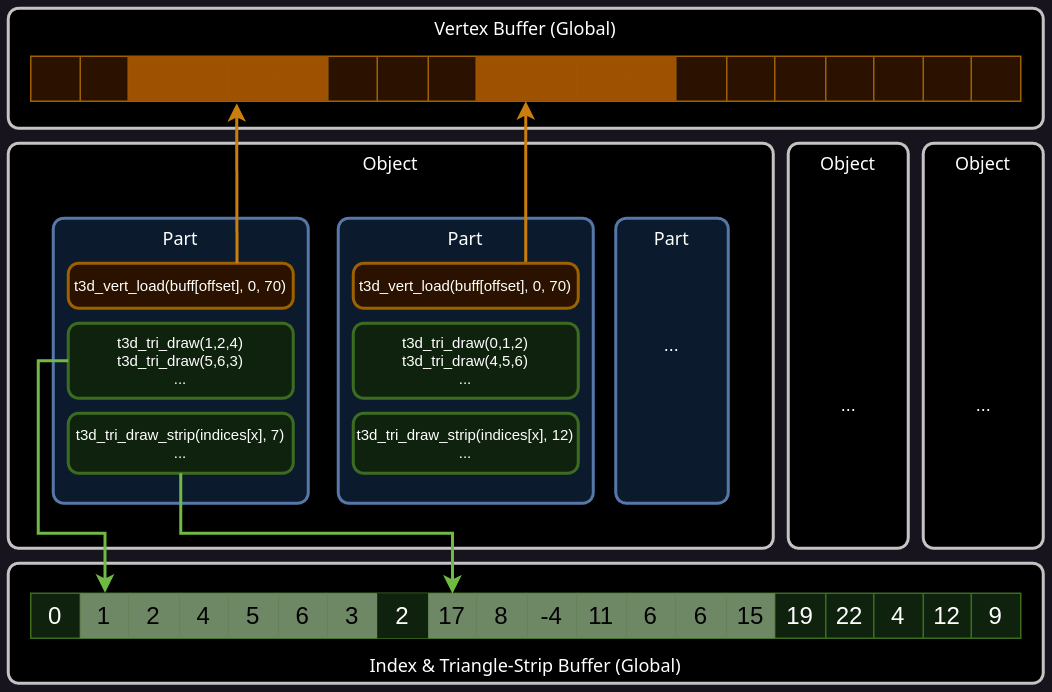
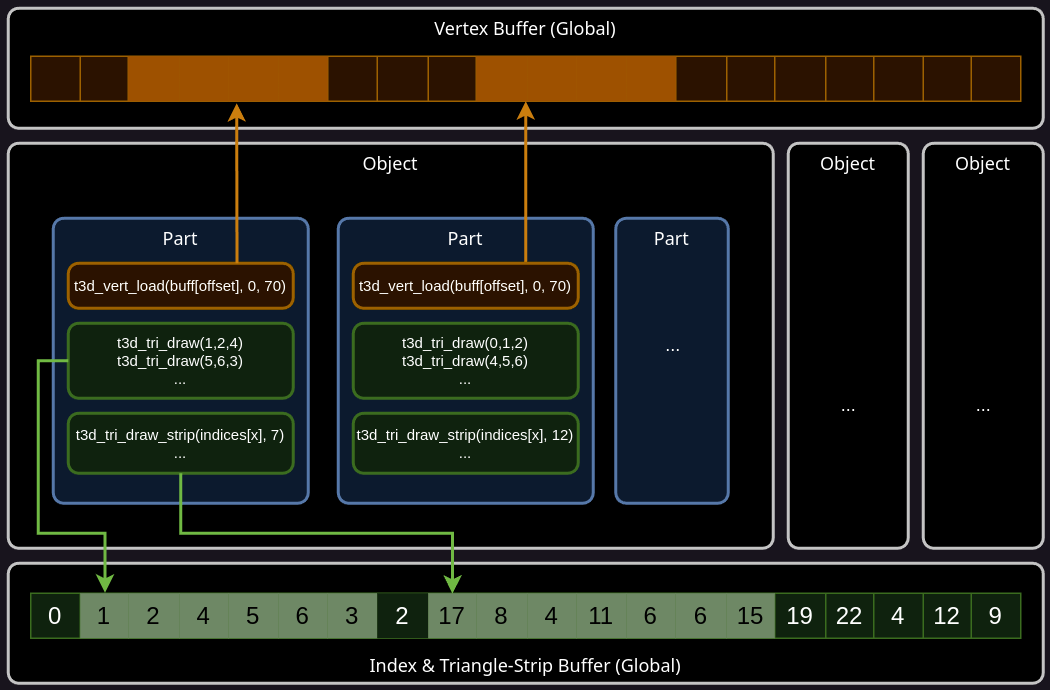
chg: finish first docs version

diff --git a/tools/gltf_importer/src/main.cpp b/tools/gltf_importer/src/main.cpp
@@ -134,8 +134,10 @@ int main(int argc, char* argv[])
     if(config.verbose) {
       int totalIdx=0, totalStrips=0, totalStripCmd = 0;
       for(auto &c : chunks.chunks) {
-        printf("[%s:part-%ld] Indices | List: %d, Strip: %d %d %d %d\n",
-          model.name.c_str(), &c - &chunks.chunks[0],
+        printf("[%s:part-%ld] Vert: %d | Idx-Tris: %d | Idx-Strip: %d %d %d %d\n",
+          model.name.c_str(),
+          &c - &chunks.chunks[0],
+          c.vertexCount,
           c.indices.size(),
           c.stripIndices[0].size(), c.stripIndices[1].size(),
           c.stripIndices[2].size(), c.stripIndices[3].size()
@@ -144,7 +146,7 @@ int main(int argc, char* argv[])
         totalStrips += c.stripIndices[0].size() + c.stripIndices[1].size() + c.stripIndices[2].size() + c.stripIndices[3].size();
         totalStripCmd += !c.stripIndices[0].empty() + !c.stripIndices[1].empty() + !c.stripIndices[2].empty() + !c.stripIndices[3].empty();
       }
-      printf("[%s] Total indices | List: %d, Strip: %d (commands: %d)\n", model.name.c_str(), totalIdx, totalStrips, totalStripCmd);
+      printf("[%s] Idx-Tris: %d, Idx-Strip: %d (commands: %d)\n", model.name.c_str(), totalIdx, totalStrips, totalStripCmd);
     }
 
     chunks.triCount = model.triangles.size();

diff --git a/docs/modelOpt.md b/docs/modelOpt.md
@@ -31,7 +31,7 @@ Here is an example visualization of the structure we want to build:<br>
 
 Note that this is the perspective of the file, so the data you see is in RDRAM.<br>
 Whereas e.g. the `t3d_vert_load(..., 0, 70)` is the offset/size of where to load it into the vertex cache.<br>
-The reason why there are strips and negative indices is explained later.<br>
+The reason why there are strips is explained later.<br>
 (For more details on how the data is stored check out the file-format: [modelFormat.md](modelFormat.md))
 
 ## Splitting
@@ -130,35 +130,152 @@ As an example, we can draw these 4 triangles with just 6 indices instead of 12:<
 
 After the first triangles that still needs 3 indices,<br>
 we can assume that the next index simply expand the triangle by re-using the last 2 indices.<br>
-The format t3d uses, also makes use of two additional features:<br>
 
 #### Reset-Index
 At some point the strip stops, mostly because not all triangles are connected.<br>
 Instead of emitting individual commands for each strip, we encode a marker to tell that a reset is needed.<br>
 This allows us to chain any given strips together, and we can load them all with one command.<br>
 
-For that we negate the first index of a new strip and subtract one.<br>
-This avoids having to waste a special value some other implementations use.<br>
-(Note that at runtime where we have DMEM addresses instead, the MSB is set. Which i may use for the model format too in the future).<br>
+For that we mark the first index of a new strip by setting the MSB to 1.<br>
+This avoids having to insert special index like some other implementations use.<br>
 
 One nice side-effect is that we could encode regular triangle-list that are not strips too without any overhead.<br>
 This is not useful for the model format, but manual usage of the t3d API can make use of this.
 
 #### Degenerate Triangles
 
-Sometimes triangles only share a single vertex with the last one.<br>
-For that we would need to restart the strip, however we can sometimes use a trick to avoid that.<br>
-By repeating the first index again, we create a "degenerate triangle", so a line instead of a polygon.<br>
-This will be discarded at runtime, in t3d's ucode directly in the strip loop by checking if the index is the same.<br>
-After that, the last two indices are different again, and we can continue the strip.<br>
+Sometimes triangles only share a single vertex with the last one, forcing us to start a new strip.<br>
+Some libraries will generate strips with degenerate triangles to avoid this.<br>
+Meaning they will emit triangles where 2 indices are the same, which causes it to be discarded, and the indices to shift.<br>
+However since we have a restart-index without any overhead, this is always worse.<br>
+In addition, the ucode would have to explicitly handle this in the loop.<br>
+For that reason, degenerated triangles are not supported.<br>
 
-As an example:
-
-@TODO: image
 
 #### Generating Strip-Commands
+Now that we know how to encode strips, we can generate them.<br>
+We first stripify the index buffer we already have in the part using this library: https://github.com/GPSnoopy/TriStripper <br>
+This will return a list of individual strips.<br>
 
-@TODO: 
+Note that i'm not using meshoptimizer here as it forces degenerate triangles.<br>
+TriStripper does explicitly not, and generates shorter sequences than meshoptimizer.<br>
+
+Here is a a very simple mesh, left the input, right the output of TriStripper:
+![tri_strip_example](./img/tri_strip_example.png)
+It created one strip, and then a single triangle for the leftover one.
+
+Since we want to have at least some room for our strips, we first make sure that at least 2 vertex slots are unused.<br>
+For that we simply draw all triangles that use them using regular triangle commands.<br>
+It's important to note that strip commands carry some overhead, needing to start a DMA and setup some registers.<br>
+So they are only more efficient when they draw several triangles.<br>
+
+Now starts the main loop, we try to fit as many strips into the free slots, preferring ones that container larger indices.<br>
+This is done to increase the chance to end up with more space after.<br>
+All fitting strips are concatenated together using the MSB flag mentioned earlier.<br>
+After nothing fits anymore, we can look at all the strips still left, and reevaluate how many vertex slots are free now.<br>
+This then repeats until not strips are left.<br>
+Note that after each iteration, the space of the previous strip is free to use again, so we can't create a dead-lock.<br>
+
+Now we are finally finished!<br>
+What we have now is a sequence of vertex loads, followed by single triangle draws, followed by commands to load and draw index buffers.<br>
+At that's left at runtime is to simply execute those commands in the given order.<br>
+
+### Example
+For some example, we can look at the testmodel in the example `99_testscene`:
+![model](./img/example_model.jpg)
+
+This is a single object with 4 disconnected meshes, the right monkey head is also flat-shaded (in the mesh, not as a draw-flag).
+
+And here the log of all the parts:
+this shows the amount of vertices loaded at once, then the index count for regulat individual triangles (so 3 per tri), and lastly the index count for each of the triangle strip commands.
+```
+[Scene] Vertices input: 3642
+[Scene] Indices input: 6978
+[Scene] Vertices out: 3698
+[Scene:part-0] Vert: 70 | Idx-Tris: 6 | Idx-Strip: 35 85
+[Scene:part-1] Vert: 70 | Idx-Tris: 6 | Idx-Strip: 34 99
+[Scene:part-2] Vert: 70 | Idx-Tris: 9 | Idx-Strip: 35 98
+[Scene:part-3] Vert: 70 | Idx-Tris: 3 | Idx-Strip: 34 99
+[Scene:part-4] Vert: 70 | Idx-Tris: 6 | Idx-Strip: 33 107
+[Scene:part-5] Vert: 70 | Idx-Tris: 3 | Idx-Strip: 34 110
+[Scene:part-6] Vert: 70 | Idx-Tris: 3 | Idx-Strip: 34 96
+[Scene:part-7] Vert: 70 | Idx-Tris: 6 | Idx-Strip: 34 101
+[Scene:part-8] Vert: 70 | Idx-Tris: 6 | Idx-Strip: 35 92
+[Scene:part-9] Vert: 70 | Idx-Tris: 3 | Idx-Strip: 35 35 81
+[Scene:part-10] Vert: 70 | Idx-Tris: 3 | Idx-Strip: 35 95
+[Scene:part-11] Vert: 70 | Idx-Tris: 3 | Idx-Strip: 35 127
+[Scene:part-12] Vert: 68 | Idx-Tris: 0 | Idx-Strip: 49 109
+[Scene:part-13] Vert: 68 | Idx-Tris: 0 | Idx-Strip: 49 18
+[Scene:part-14] Vert: 68 | Idx-Tris: 0 | Idx-Strip: 49 18
+[Scene:part-15] Vert: 68 | Idx-Tris: 0 | Idx-Strip: 33 35
+[Scene:part-16] Vert: 70 | Idx-Tris: 3 | Idx-Strip: 66
+[Scene:part-17] Vert: 70 | Idx-Tris: 3 | Idx-Strip: 66
+[Scene:part-18] Vert: 68 | Idx-Tris: 0 | Idx-Strip: 35 33
+[Scene:part-19] Vert: 68 | Idx-Tris: 0 | Idx-Strip: 35 39
+[Scene:part-20] Vert: 68 | Idx-Tris: 0 | Idx-Strip: 49 18
+[Scene:part-21] Vert: 68 | Idx-Tris: 0 | Idx-Strip: 35 34
+[Scene:part-22] Vert: 68 | Idx-Tris: 0 | Idx-Strip: 35 33
+[Scene:part-23] Vert: 70 | Idx-Tris: 3 | Idx-Strip: 66
+[Scene:part-24] Vert: 68 | Idx-Tris: 0 | Idx-Strip: 33 35
+[Scene:part-25] Vert: 68 | Idx-Tris: 0 | Idx-Strip: 33 36
+[Scene:part-26] Vert: 68 | Idx-Tris: 0 | Idx-Strip: 33 35
+[Scene:part-27] Vert: 68 | Idx-Tris: 0 | Idx-Strip: 48 19
+[Scene:part-28] Vert: 70 | Idx-Tris: 3 | Idx-Strip: 66
+[Scene:part-29] Vert: 68 | Idx-Tris: 0 | Idx-Strip: 33 35
+[Scene:part-30] Vert: 68 | Idx-Tris: 0 | Idx-Strip: 35 33
+[Scene:part-31] Vert: 70 | Idx-Tris: 3 | Idx-Strip: 66
+[Scene:part-32] Vert: 68 | Idx-Tris: 0 | Idx-Strip: 35 33
+[Scene:part-33] Vert: 68 | Idx-Tris: 0 | Idx-Strip: 49 18
+[Scene:part-34] Vert: 68 | Idx-Tris: 0 | Idx-Strip: 35 33
+[Scene:part-35] Vert: 68 | Idx-Tris: 0 | Idx-Strip: 47 20
+[Scene:part-36] Vert: 68 | Idx-Tris: 0 | Idx-Strip: 49 67
+[Scene:part-37] Vert: 70 | Idx-Tris: 3 | Idx-Strip: 66
+[Scene:part-38] Vert: 70 | Idx-Tris: 3 | Idx-Strip: 66
+[Scene:part-39] Vert: 68 | Idx-Tris: 0 | Idx-Strip: 33 36
+[Scene:part-40] Vert: 68 | Idx-Tris: 0 | Idx-Strip: 33 35
+[Scene:part-41] Vert: 70 | Idx-Tris: 3 | Idx-Strip: 66
+[Scene:part-42] Vert: 70 | Idx-Tris: 3 | Idx-Strip: 66
+[Scene:part-43] Vert: 70 | Idx-Tris: 3 | Idx-Strip: 66
+[Scene:part-44] Vert: 70 | Idx-Tris: 3 | Idx-Strip: 66
+[Scene:part-45] Vert: 70 | Idx-Tris: 3 | Idx-Strip: 66
+[Scene:part-46] Vert: 70 | Idx-Tris: 3 | Idx-Strip: 66
+[Scene:part-47] Vert: 70 | Idx-Tris: 3 | Idx-Strip: 66
+[Scene:part-48] Vert: 70 | Idx-Tris: 3 | Idx-Strip: 66
+[Scene:part-49] Vert: 70 | Idx-Tris: 3 | Idx-Strip: 66
+[Scene:part-50] Vert: 70 | Idx-Tris: 3 | Idx-Strip: 66
+[Scene:part-51] Vert: 68 | Idx-Tris: 0 | Idx-Strip: 48 19
+[Scene:part-52] Vert: 70 | Idx-Tris: 3 | Idx-Strip: 66
+[Scene:part-53] Vert: 34 | Idx-Tris: 0 | Idx-Strip: 33
+[Scene] Idx-Tris: 111, Idx-Strip: 4563 (commands: 90)
+```
+
+As mentioned earlier the amount of vertices slightly increased due to the duplication logic.<br>
+However we do end up with loads that almost always load the entire cache at once.<br>
+
+The amount of individual triangle we have to draw to free up slots for strips is also very low, usually only taking 0 or 1 triangle.<br>
+For indices, we can see a decrease from 6978 to 4674, a save of ~33%.<br>
+More importantly, just 127 commands to draw them (`90 + 111/3`).<br>
+Without strips that would have been 2326 commands, which is a reduction of `94.5%`!<br>
+
+In terms of memory traffic, triangle strips also have a big effect.<br>
+If you sum up the memory-bandwidth needed for both the commands and buffers:
+```
+  37x t3d_tri_draw()       = 37   * 8b =   296b
++ 90x t3d_tri_draw_strip() = 90   * 8b =   720b
++ strip buffer             = 4563 * 2b =  9126b
+================================= Total: 10142b
+```
+Compared to no strips:
+```
+  2326x t3d_tri_draw()     = 2326 * 8b = 18608b
+================================= Total: 18608b
+```
+In total a reduction of ~45.5%!<br>
+Which ofc has the nice side-effect of making other things faster as the memory-bus is less busy.<br>
+
+In terms of RSP performance of the ucode itself, strips in this model saved 1650us.<br>
+As the time of writing, bringing it down to 8807us of RSP time.<br>
+Note there the are more factors involved to it, so RSP time saves may differ a bit depending on the scene.<br>
 
 ## Materials
 
@@ -189,4 +306,5 @@ In the case it's not enough, the rest is emitted as regular `t3d_tri_draw` calls
 
 - Index buffers are DMA'd, so they must align to 8 bytes on the RSP.<br>
 However the vertex slot size is only div. by 4 so we need assume one possible index less if we start on an odd slot.<br>
-This needs to be done since we can't overwrite previous data which would corrupt active vertices.
+This needs to be done since we can't overwrite previous data which would corrupt active vertices.<br>
+Overwriting the data after, which would be 2 bytes of garbage is ok, as it contains the clipping buffers.
